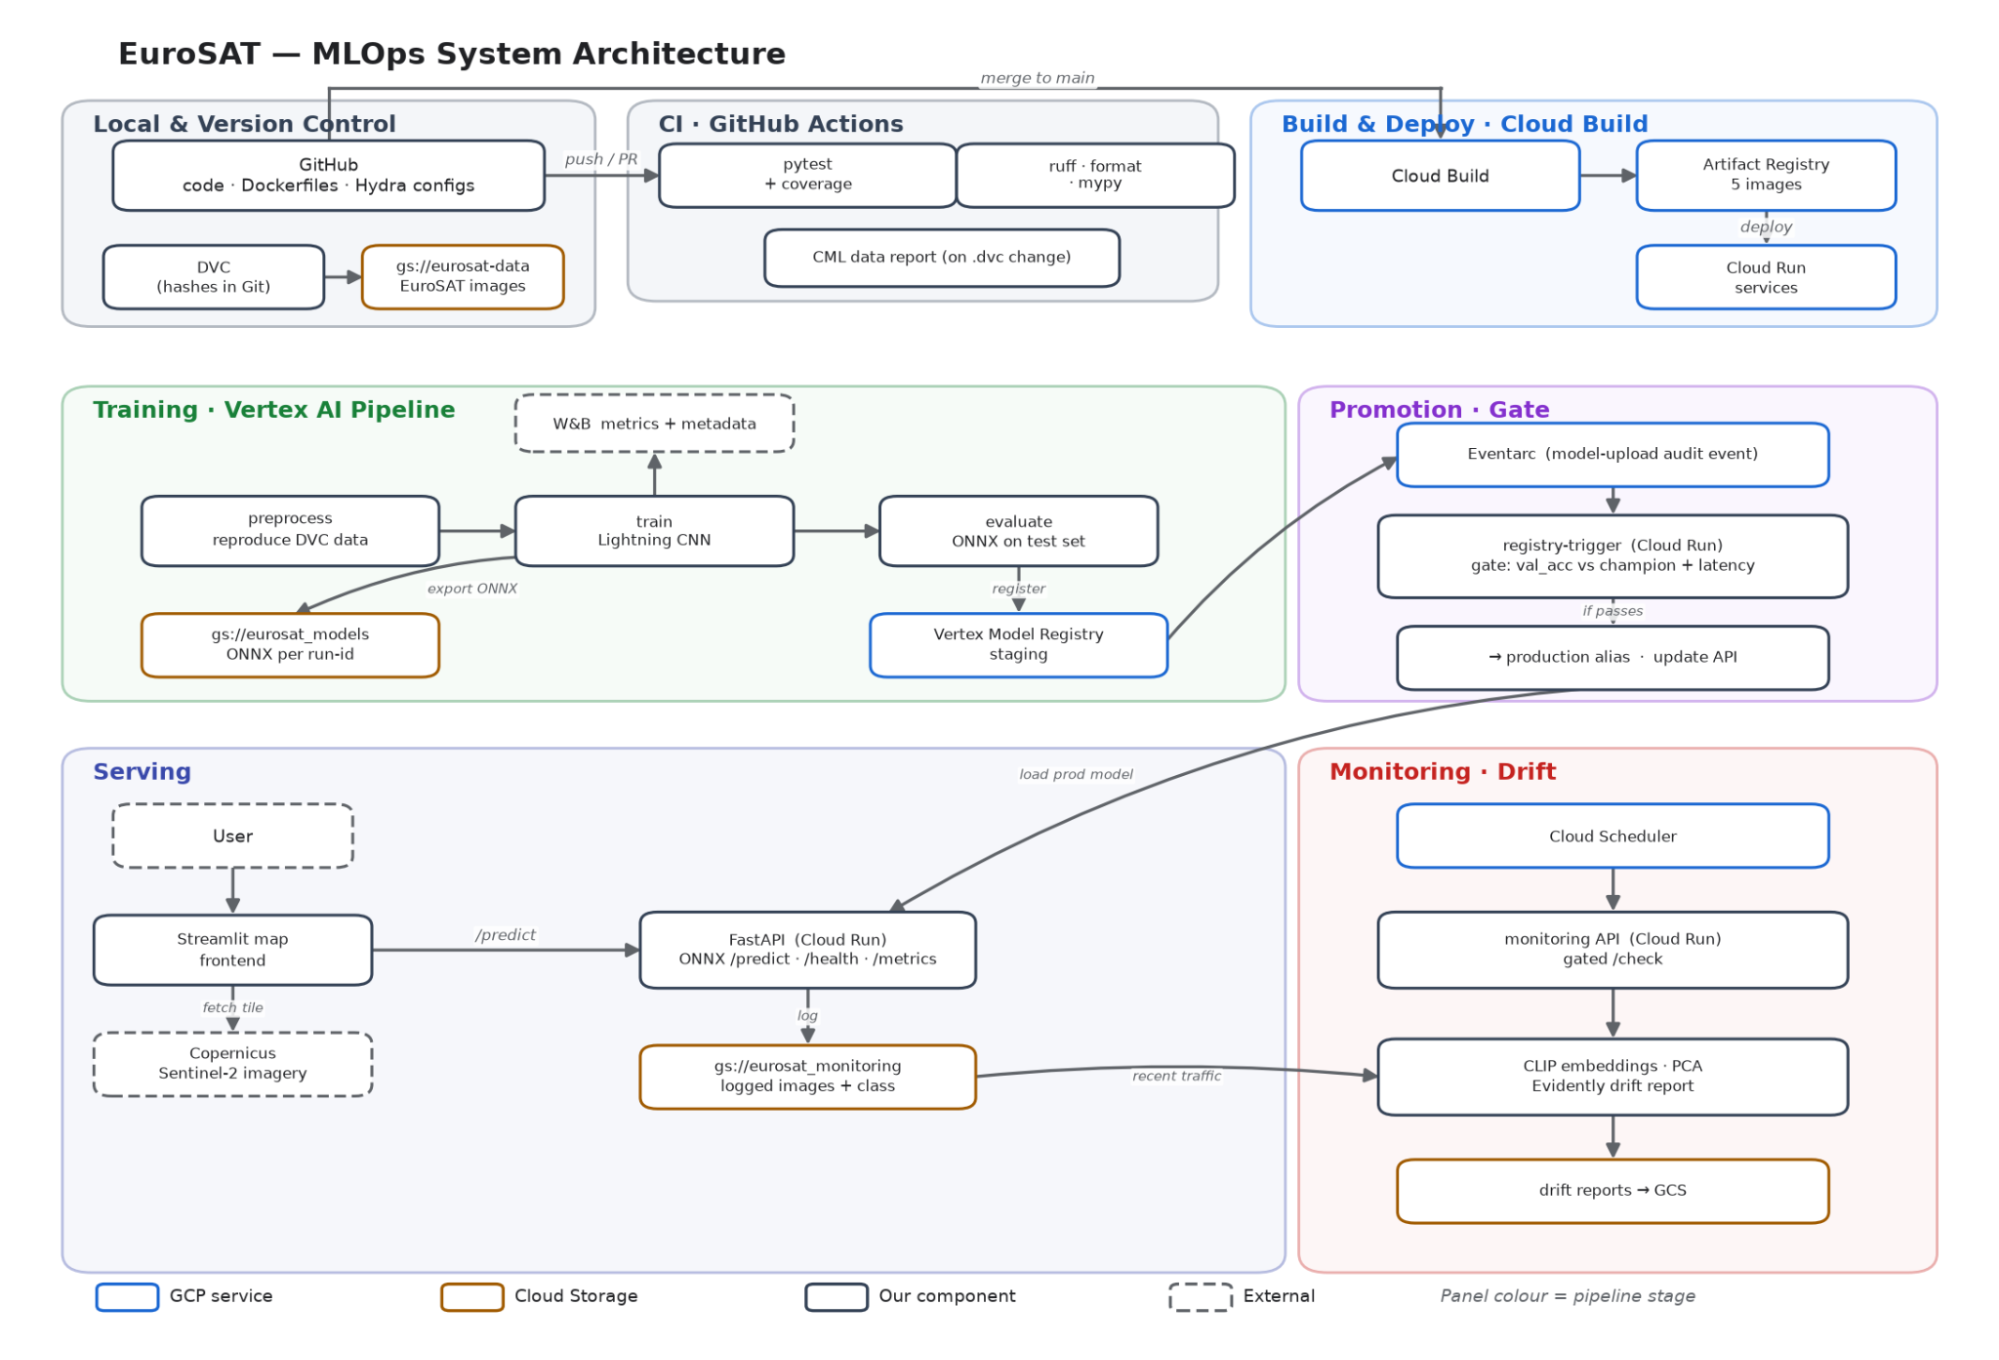
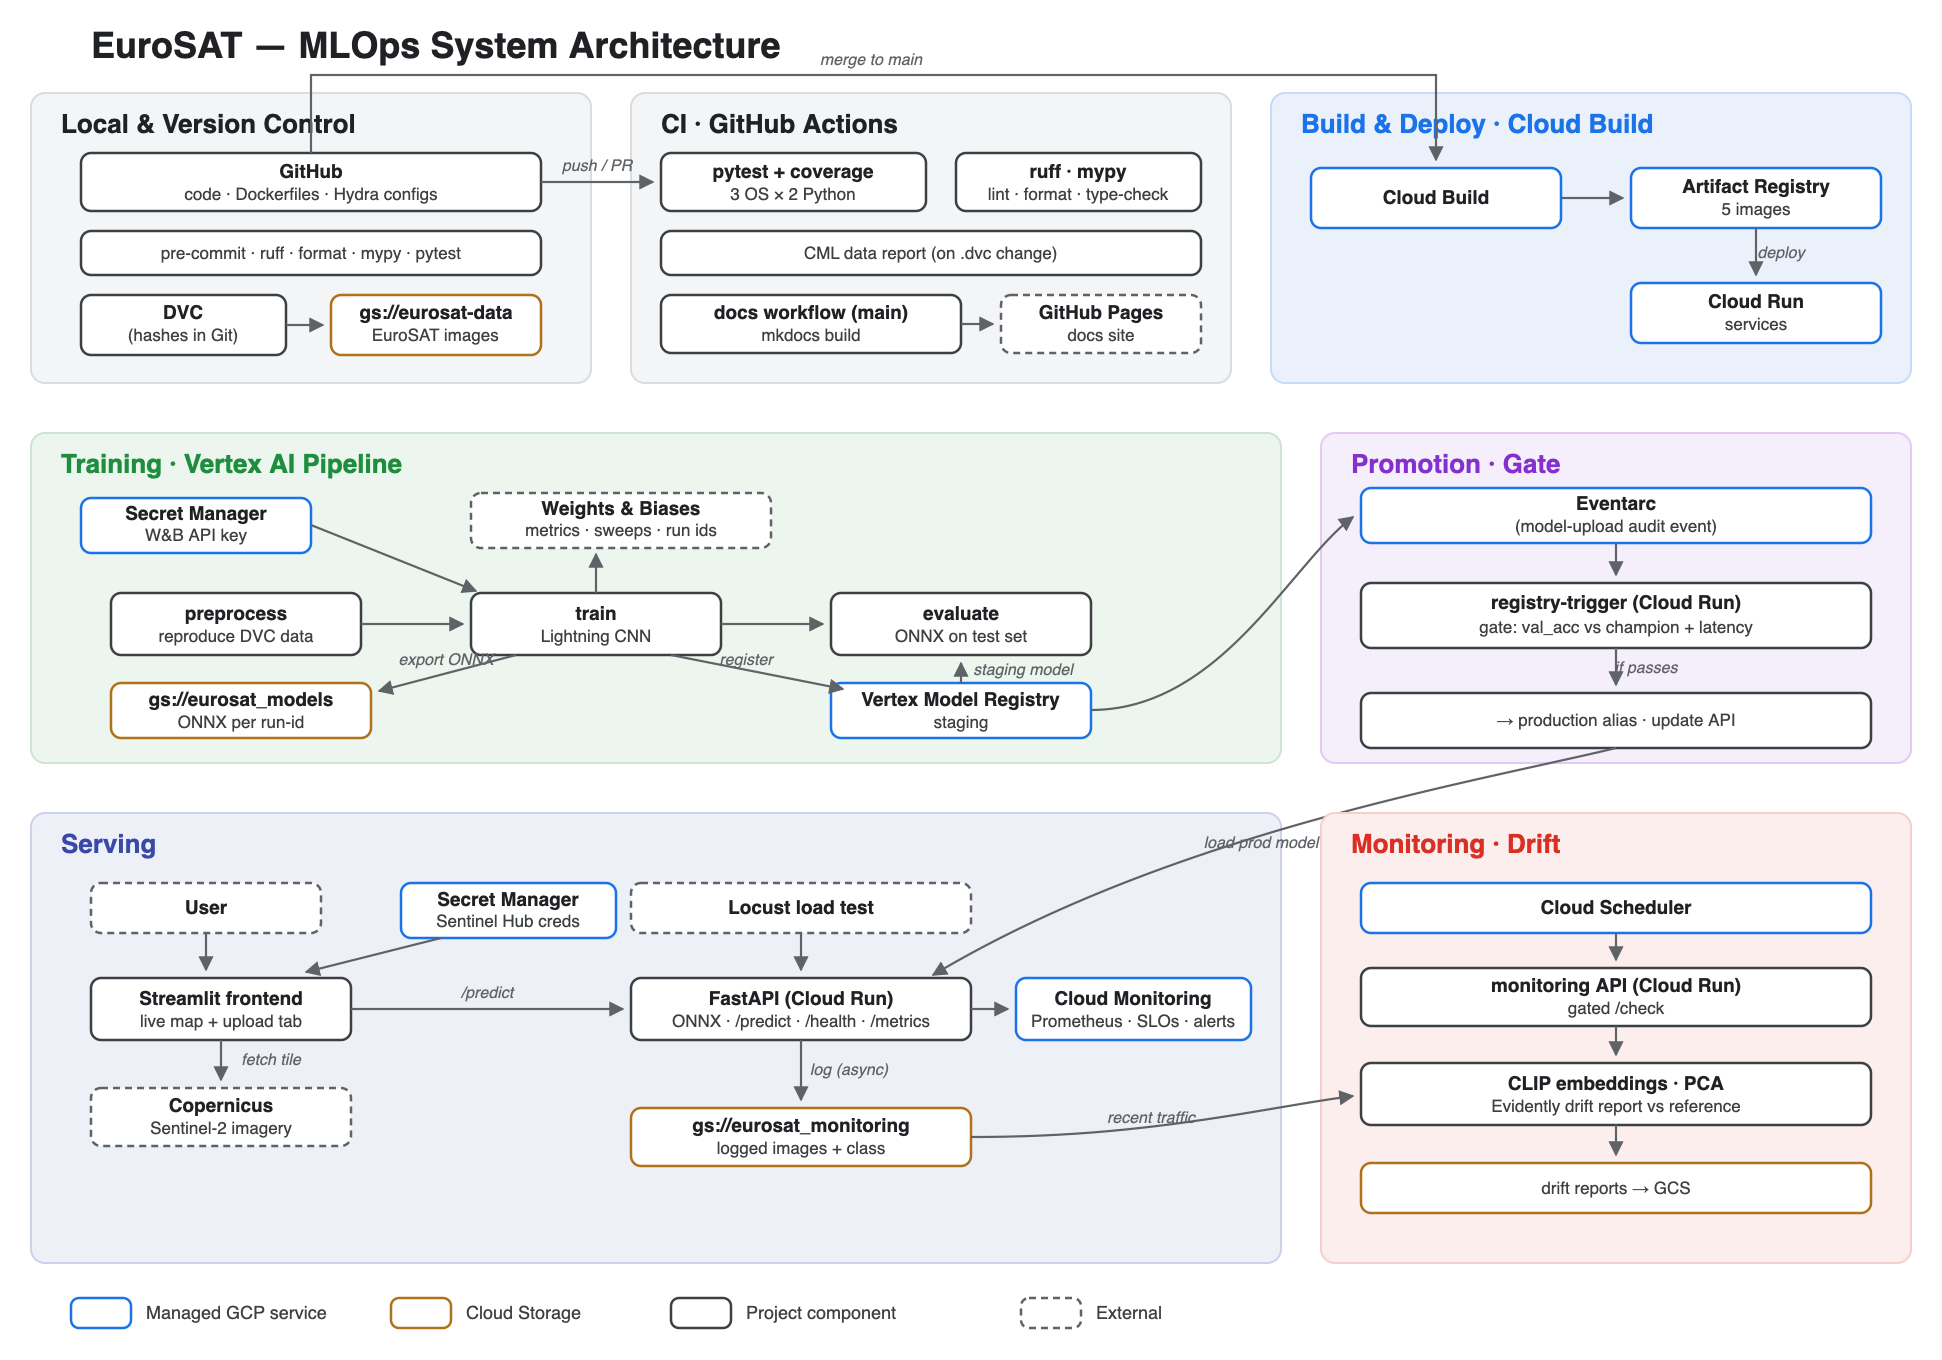
Update architecture figure, report and README

diff --git a/README.md b/README.md
@@ -1,69 +1,110 @@
 # mlops_eurosat
 
+[![Unit Tests](https://github.com/mlops-eurosat/MLOps-EuroSAT/actions/workflows/tests.yaml/badge.svg?branch=main)](https://github.com/mlops-eurosat/MLOps-EuroSAT/actions/workflows/tests.yaml)
+[![Code linting](https://github.com/mlops-eurosat/MLOps-EuroSAT/actions/workflows/linting.yaml/badge.svg?branch=main)](https://github.com/mlops-eurosat/MLOps-EuroSAT/actions/workflows/linting.yaml)
+[![Deploy Docs](https://github.com/mlops-eurosat/MLOps-EuroSAT/actions/workflows/docs.yaml/badge.svg?branch=main)](https://github.com/mlops-eurosat/MLOps-EuroSAT/actions/workflows/docs.yaml)
+
 MLOps pipeline for land use classification on the EuroSAT dataset.
+
+Documentation: <https://mlops-eurosat.github.io/MLOps-EuroSAT/>
+
+## Architecture
+
+![EuroSAT MLOps system architecture](reports/figures/architecture.png)
 
 ## Project structure
 
 The directory structure of the project looks like this:
 ```txt
+├── .devcontainer/            # VS Code devcontainer
 ├── .github/                  # Github actions and dependabot
 │   ├── dependabot.yaml
 │   └── workflows/
 │       ├── cml_data.yml
+│       ├── docs.yaml
 │       ├── linting.yaml
 │       └── tests.yaml
-├── configs/                  # Configuration files
+├── configs/                  # Hydra configuration
 │   ├── model/
 │   ├── training/
 │   ├── wandb/
 │   ├── config.yaml
 │   └── sweep.yaml
-├── data/                     # Data directory
-│   ├── processed
-│   └── raw
-├── dockerfiles/              # Dockerfiles
+├── data/                     # DVC-tracked data
+├── dockerfiles/              # One image per service
 │   ├── api.dockerfile
+│   ├── frontend.dockerfile
+│   ├── monitoring.dockerfile
 │   ├── train.dockerfile
 │   └── trigger.dockerfile
 ├── docs/                     # Documentation
 │   ├── mkdocs.yaml
 │   └── source/
-│       └── index.md
 ├── models/                   # Trained models
-├── notebooks/                # Jupyter notebooks
-├── reports/                  # Reports
-│   └── figures/
+├── reports/                  # Course report and figures
 ├── src/                      # Source code
-│   ├── mlops_eurosat/
-│   │   ├── __init__.py
-│   │   ├── api.py
-│   │   ├── data.py
-│   │   ├── dataset_statistics.py
-│   │   ├── evaluate.py
-│   │   ├── frontend.py
-│   │   ├── model.py
-│   │   ├── pipeline.py
-│   │   ├── registry_trigger.py
-│   │   ├── train.py
-│   │   ├── vertex_registry.py
-│   │   └── visualize.py
-└── tests/                    # Tests
-│   ├── __init__.py
-│   ├── test_api.py
-│   ├── test_data.py
-│   ├── test_evaluate.py
-│   └── test_model.py
-├── .gitignore
+│   └── mlops_eurosat/
+│       ├── api.py
+│       ├── data.py
+│       ├── data_drift.py
+│       ├── dataset_statistics.py
+│       ├── evaluate.py
+│       ├── frontend_map.py
+│       ├── model.py
+│       ├── model_registry.py
+│       ├── monitoring_api.py
+│       ├── pipeline.py
+│       ├── profiling.py
+│       ├── quantize.py
+│       ├── registry_trigger.py
+│       ├── train.py
+│       └── visualize.py
+├── tests/                    # Unit tests
+│   └── performancetests/     # Locust load test
 ├── .pre-commit-config.yaml
+├── cloudbuild.yaml
+├── dvc.yaml
 ├── LICENSE
-├── pyproject.toml            # Python project file
-├── README.md                 # Project README
-├── requirements.txt          # Project requirements
-├── requirements_dev.txt      # Development requirements
-└── tasks.py                  # Project tasks
+├── pyproject.toml
+├── README.md
+├── requirements.txt          # Base requirements
+├── requirements_*.txt        # Dev and per-service requirements
+├── tasks.py                  # Invoke tasks
+└── vertex_config_*.yaml      # Vertex AI job configs
 ```
 
+## License
+
+This project is licensed under the MIT License — see [LICENSE](LICENSE).
+
+## Attributions
+
+### Data
+
+This project uses the [EuroSAT dataset](https://github.com/phelber/EuroSAT)
+(Helber et al.), released under the MIT License. EuroSAT contains modified
+Copernicus Sentinel data (2017), used in accordance with the
+[Copernicus Sentinel Data Terms and Conditions](https://sentinel.esa.int/documents/247904/690755/Sentinel_Data_Legal_Notice).
+
+If you use this work, please cite:
+
+> Helber, P., Bischke, B., Dengel, A., & Borth, D. (2019). EuroSAT: A novel
+> dataset and deep learning benchmark for land use and land cover
+> classification. *IEEE Journal of Selected Topics in Applied Earth
+> Observations and Remote Sensing*, 12(7), 2217–2226.
+
+### Template
 
 Created using [mlops_template](https://github.com/SkafteNicki/mlops_template),
 a [cookiecutter template](https://github.com/cookiecutter/cookiecutter) for getting
-started with Machine Learning Operations (MLOps).
+started with Machine Learning Operations (MLOps), developed for the
+[DTU MLOps course](https://github.com/SkafteNicki/dtu_mlops):
+
+```bibtex
+@misc{skafte_mlops,
+    author       = {Nicki Skafte Detlefsen},
+    title        = {Machine Learning Operations},
+    howpublished = {\url{https://github.com/SkafteNicki/dtu_mlops}},
+    year         = {2026}
+}
+```

diff --git a/reports/README.md b/reports/README.md
@@ -97,11 +97,11 @@ will check the repositories and the code to verify your answers.
 
 ### Week 3
 
-* [ ] Check how robust your model is towards data drifting (M27)
+* [x] Check how robust your model is towards data drifting (M27)
 * [x] Setup collection of input-output data from your deployed application (M27)
 * [x] Deploy to the cloud a drift detection API (M27)
 * [x] Instrument your API with a couple of system metrics (M28)
-* [ ] Setup cloud monitoring of your instrumented application (M28)
+* [x] Setup cloud monitoring of your instrumented application (M28)
 * [x] Create one or more alert systems in GCP to alert you if your app is not behaving correctly (M28)
 * [ ] If applicable, optimize the performance of your data loading using distributed data loading (M29)
 * [ ] If applicable, optimize the performance of your training pipeline by using distributed training (M30)
@@ -109,8 +109,8 @@ will check the repositories and the code to verify your answers.
 
 ### Extra
 
-* [ ] Write some documentation for your application (M32)
-* [ ] Publish the documentation to GitHub Pages (M32)
+* [x] Write some documentation for your application (M32)
+* [x] Publish the documentation to GitHub Pages (M32)
 * [x] Revisit your initial project description. Did the project turn out as you wanted?
 * [x] Create an architectural diagram over your MLOps pipeline
 * [x] Make sure all group members have an understanding about all parts of the project
@@ -640,15 +640,15 @@ Our frontend lets you upload your own image, but on top of that it has a live ma
 
 ![EuroSAT — MLOps system architecture](figures/architecture.png)
 
-The starting point of the diagram is our local setup and version control. Code, Dockerfiles and Hydra configs live in GitHub, and the data is versioned with DVC — the hashes sit in Git while the actual EuroSAT images live in a Cloud Storage bucket.
+The starting point of the diagram is our local setup and version control. Code, Dockerfiles and Hydra configs live in GitHub, guarded locally by pre-commit hooks (ruff, mypy, pytest), and the data is versioned with DVC — the hashes sit in Git while the EuroSAT images live in a Cloud Storage bucket.
 
-Whenever we push or open a pull request, GitHub Actions runs the CI: pytest with coverage, plus Ruff, formatting and mypy. If the DVC files change, a separate workflow posts a CML data report on the pull request. When a branch is merged to main, Cloud Build takes over: it builds our five Docker images in parallel, pushes them to Artifact Registry, and deploys the services to Cloud Run.
+Whenever we push or open a pull request, GitHub Actions runs the CI: pytest with coverage on a 3-OS × 2-Python matrix, plus Ruff, formatting and mypy. If DVC files change, a separate workflow posts a CML data report on the pull request, and on main the docs workflow builds the mkdocs site and publishes it to GitHub Pages. When a branch is merged to main, Cloud Build builds our five Docker images in parallel, pushes them to Artifact Registry, and deploys the services to Cloud Run.
 
-Training runs as a Vertex AI pipeline with three steps. Preprocess reproduces the DVC data, train runs the Lightning CNN and logs metrics and metadata to W&B, and evaluate scores the ONNX model on the test set. The trained model is exported to ONNX, uploaded to Cloud Storage under its run ID, and registered in the Vertex Model Registry as staging.
+Training runs as a Vertex AI pipeline with three steps. Preprocess reproduces the DVC data. Train runs the Lightning CNN — fetching its W&B key from Secret Manager — logs metrics to W&B, exports the best checkpoint to ONNX, uploads it to Cloud Storage under its run ID and registers it as staging in the Vertex Model Registry. Evaluate then downloads exactly this staging model and scores it on the test set.
 
 Registering a model emits an audit event. Eventarc routes it to our registry-trigger service, which acts as a gate: it compares the new model's validation accuracy against the current production model and checks its latency, and only if it passes does the model get the production alias and the API get repointed to it.
 
-On the serving side, the user interacts through a Streamlit map. It fetches current Sentinel-2 imagery for the chosen location from the Copernicus Data Space and calls the FastAPI service, which runs ONNX inference and exposes /predict, /health and Prometheus /metrics. Every prediction image is logged to a monitoring bucket. Finally, Cloud Scheduler periodically calls the monitoring service, which embeds recent images with CLIP, reduces them with PCA and runs an Evidently drift report against a reference set, storing the reports in Cloud Storage.
+On the serving side, the user interacts through a Streamlit app with a live map and an upload tab. The map fetches current Sentinel-2 imagery from the Copernicus Data Space — with Sentinel Hub credentials from Secret Manager — and calls the FastAPI service, which runs ONNX inference and exposes /predict, /health and /metrics. A Prometheus sidecar scrapes those metrics into Cloud Monitoring, where SLOs and alerts watch the service; our Locust load test hits the same endpoint. Every prediction image is logged asynchronously to a monitoring bucket. Finally, Cloud Scheduler periodically calls the monitoring service, which embeds recent images with CLIP, reduces them with PCA and runs an Evidently drift report against a reference set, storing the reports in Cloud Storage.
 
 ### Question 30
 
